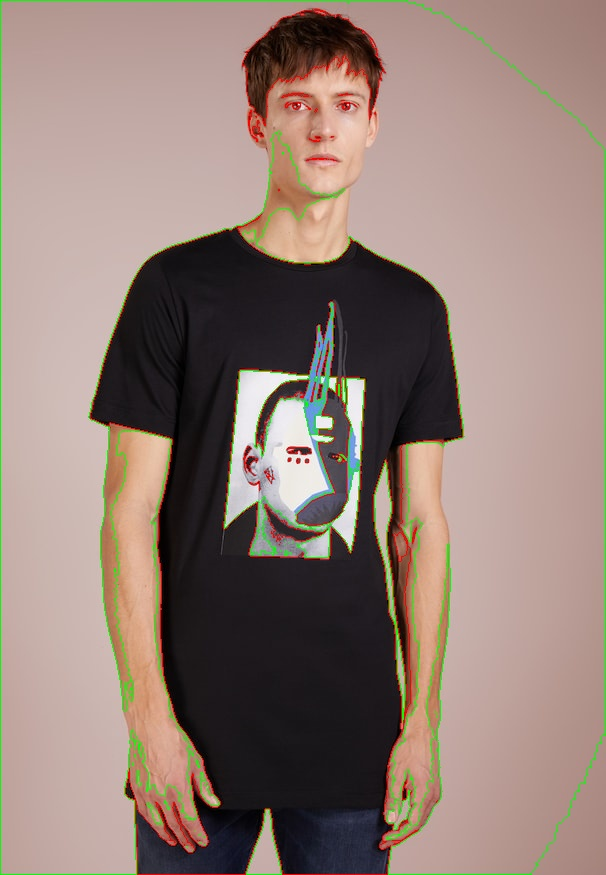
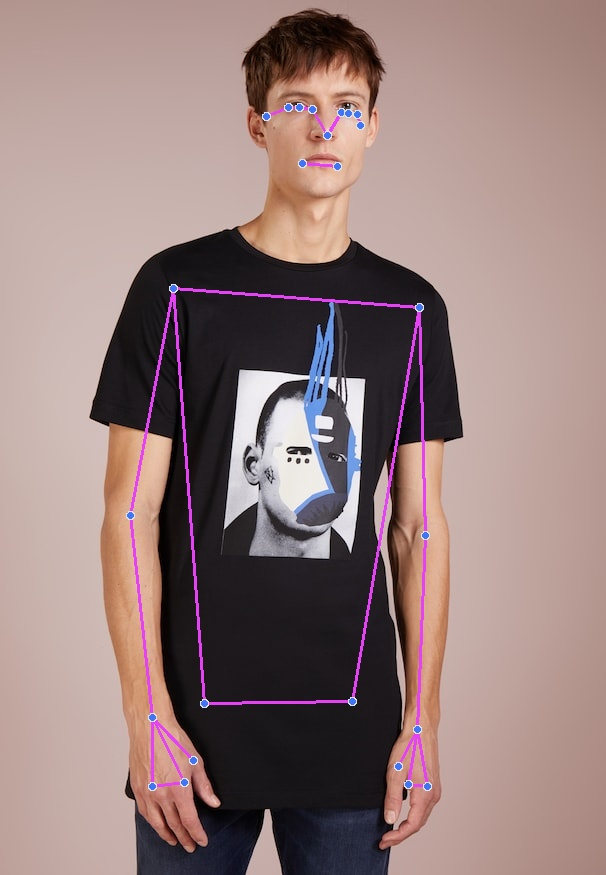
img pose landmark

diff --git a/Ai/Data/Image Processing/Detach_Image_Infor_test.py b/Ai/Data/Image Processing/Detach_Image_Infor_test.py
@@ -48,8 +48,8 @@ img_path_list2(data_path)
 
 #1 사진에서 랜드 마크 찍기 다른 폴더 사진으로 저장
 
-img_pose = mp.solutions.pose #미디어 파이프 솔루션
-
+mp_img_pose = mp.solutions.pose #미디어 파이프 솔루션
+mp_pose_img_drawing=mp.solutions.drawing_utils
 
 test_path='../Clothing_Data/zalando/shirt/0DB22O00B-Q11@8.jpg'
 
@@ -68,56 +68,81 @@ if not os.path.exists('../ImgProcess/Clothing_Landmark/' + key_path):
 
 # 처리한 이미지 저장
 landmark_img_path = '../ImgProcess/Clothing_Landmark/' + key_path + '/' + key_name
-# 이미지 색상 저장 csv file로 변환
-#이미지 사람과 옷 태두리
-with img_pose.Pose(
-static_image_mode=True,
-enable_segmentation=True,
-min_detection_confidence=0.5) as pose:
+def img_contour():
 
       #근데 이미지 확장성이 jpg라서 용량이 큼 용량을 줄일 필요가 있지 않을까?
       #if of openCV
       #이미지 처리를 할때 우선적으로 관심영역만 표시를 할까?
       #아니면 원본에서 처리를 한다음에 인식을 해야 할까?
       origin_img=cv2.imread(test_path) #이미지 읽어오기
-      nagative_color_img=cv2.bitwise_not(origin_img)
-      nagative_img =cv2.cvtColor(nagative_color_img, cv2.COLOR_BGR2GRAY) # 그레이 색상으로 하는 이유는 노이즈 제거와 속도 때문에
-      positive_img=cv2.cvtColor(origin_img, cv2.COLOR_BGR2GRAY)# 그레이 색상으로 하는 이유는 노이즈 제거와 속도 때문에
 
-      _, nagative_img_binary = cv2.threshold(nagative_img, 150, 255, cv2.THRESH_BINARY)
-      _, positive_img_binary = cv2.threshold(positive_img, 150, 255, cv2.THRESH_BINARY)
+      hsv_origin_img=cv2.cvtColor(origin_img,cv2.cv2.COLOR_BGR2HSV) #노이즈제거는 GRAY이지만
 
-      nagative_find, nagative_hier = cv2.findContours(nagative_img_binary,
-                                                      mode=cv2.RETR_EXTERNAL, method=cv2.CHAIN_APPROX_NONE)
-      positive_find, positive_hier = cv2.findContours(positive_img_binary,
-                                                      mode=cv2.RETR_EXTERNAL, method=cv2.CHAIN_APPROX_NONE)
-      #케니 필터를 이용해서 윤곽선 추출 -보류
-      index=0
-      while index>=0:
-            #사람
-            #nagavite
+      gaussian_blur =cv2.GaussianBlur(hsv_origin_img,ksize=(3,3),sigmaX=0)
+      ret, thresh1 = cv2.threshold(gaussian_blur, 127, 255, cv2.THRESH_BINARY)
+      egde=cv2.Canny(gaussian_blur, threshold1=10, threshold2=250)
 
-            nagative_img_contour=cv2.drawContours(origin_img,
-                                         contours=find, contourIdx=index,
-                                         color=(0, 0, 255), lineType=cv2.LINE_8, hierarchy=hier)
-            #positive
+      return egde
+      #cv2.imshow(landmark_img_path, egde)  # 절대 경로, 이미지 읽을 때 옵션
+      #cv2.imwrite(landmark_img_path + '.jpg', egde)
+
+# nagative_color_img=cv2.bitwise_not(origin_img)
+# nagative_img =cv2.cvtColor(nagative_color_img, cv2.COLOR_BGR2GRAY) # 그레이 색상으로 하는 이유는 노이즈 제거와 속도 때문에
+# positive_img=cv2.cvtColor(origin_img, cv2.COLOR_BGR2GRAY)# 그레이 색상으로 하는 이유는 노이즈 제거와 속도 때문에
+#
+# _, nagative_img_binary = cv2.threshold(nagative_img, 150, 255, cv2.THRESH_BINARY)
+# _, positive_img_binary = cv2.threshold(positive_img, 150, 255, cv2.THRESH_BINARY)
+#
+# nagative_find, nagative_hier = cv2.findContours(nagative_img_binary,
+#                                                 mode=cv2.RETR_EXTERNAL, method=cv2.CHAIN_APPROX_NONE)
+# positive_find, positive_hier = cv2.findContours(positive_img_binary,
+#                                                 mode=cv2.RETR_EXTERNAL, method=cv2.CHAIN_APPROX_NONE)
+#
+# index=0
+# while index>=0:
+#       #사람
+#       #nagavite
+#
+#       nagative_img_contour=cv2.drawContours(origin_img,
+#                                    contours=nagative_find, contourIdx=index,
+#                                    color=(0, 0, 255), lineType=cv2.LINE_8, hierarchy=nagative_hier)
+#       #positive
+#
+#
+#       positive_img_contour = cv2.drawContours(origin_img,
+#                                      contours=positive_find, contourIdx=index,
+#                                      color=(0, 255, 0), lineType=cv2.LINE_8, hierarchy=positive_hier)
+#
+#       img_contour=cv2.bitwise_and(nagative_img_contour, positive_img_contour)
+# roi = origin_img[y:y + h, x:x + w]
+#
+# # 옷
+# thres1 = np.random.randint(0, 50)
+# thres2 = np.random.randint(thres1, 100)
+# edge=cv2.Canny(roi, threshold1=thres1, threshold2=thres2)
+# 이미지 처리 후 처리용 폴더 경로에(새로운) 처리한 이미지 저장해야 함
+
+# 이미지 색상 저장 csv file로 변환
+
+#이미지 사람과 옷 태두리
+with mp_img_pose.Pose(
+static_image_mode=True,
+enable_segmentation=True,
+min_detection_confidence=0.5) as pose:
+      origin_img = cv2.imread(test_path)
+      test_img=cv2.cvtColor(origin_img, cv2.COLOR_BGR2RGB)
+
+      img_pose = pose.process(test_img)
+
+      reset_test_img=cv2.cvtColor(test_img, cv2.cv2.COLOR_RGB2BGR)
+
+      mp_pose_img_drawing.draw_landmarks(reset_test_img, img_pose.pose_landmarks, mp_img_pose.POSE_CONNECTIONS,
+                              mp_pose_img_drawing.DrawingSpec(color=(245,117,66), thickness=2, circle_radius=2),
+                              mp_pose_img_drawing.DrawingSpec(color=(245,66,230), thickness=2, circle_radius=2))
 
 
-            positive_img_contour = cv2.drawContours(origin_img,
-                                           contours=find, contourIdx=index,
-                                           color=(0, 255, 0), lineType=cv2.LINE_8, hierarchy=hier)
-
-            img_contour=cv2.bitwise_and(nagative_img_contour, positive_img_contour)
-      # roi = origin_img[y:y + h, x:x + w]
-      #
-      # # 옷
-      # thres1 = np.random.randint(0, 50)
-      # thres2 = np.random.randint(thres1, 100)
-      # edge=cv2.Canny(roi, threshold1=thres1, threshold2=thres2)
-      # 이미지 처리 후 처리용 폴더 경로에(새로운) 처리한 이미지 저장해야 함
-
-      cv2.imshow(landmark_img_path, img_contour)  # 절대 경로, 이미지 읽을 때 옵션
-      cv2.imwrite(landmark_img_path+'.jpg', img_contour)
+      cv2.imshow(landmark_img_path, reset_test_img)
+      cv2.imwrite(landmark_img_path + '.jpg', reset_test_img)
 
       cv2.waitKey(0)
       cv2.destroyAllWindows()
